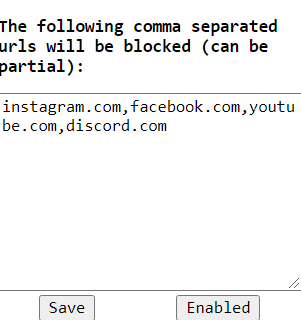
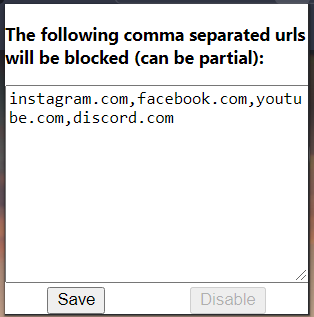
Added screens + modified README.md

Changed region(s): [[0.0, 0.0, 1.0, 1.0]]

diff --git a/README.md b/README.md
@@ -1,3 +1,15 @@
-# focus
+# Focus
 ## Productivity browser extension.
-<img src="block.PNG" alt="drawing" width="650"/><img src="popup.png" alt="drawing" width="300"/>
+## You have to solve a sudoku puzzle in order to disable the Focus mode.
+
+### Popup window where you can set the specific urls
+<img src="popup.png" alt="drawing" width="300"/>
+
+### Initial screen displaying the block
+<img src="initial_screen.PNG" alt="drawing" width="650"/>
+
+### Sucess screen
+<img src="success_screen.PNG" alt="drawing" width="650"/>
+
+### Failure screen
+<img src="failure_screen.PNG" alt="drawing" width="650"/>
